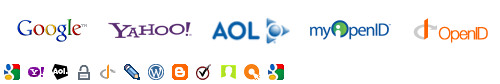
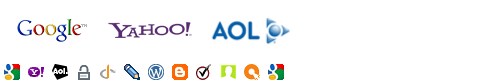
Removed myopenid and openid. Pending further fixes.

Changed region(s): [[0.81, 0.2143, 0.99, 0.5], [0.6, 0.2381, 0.78, 0.4762]]

diff --git a/ui/js/openid-en.js b/ui/js/openid-en.js
@@ -18,7 +18,7 @@ var providers_large = {
 		name : 'AOL',
 		label : 'Enter your AOL screenname.',
 		url : 'http://openid.aol.com/{username}'
-	},
+	}/*,
 	myopenid : {
 		name : 'MyOpenID',
 		label : 'Enter your MyOpenID username.',
@@ -28,7 +28,7 @@ var providers_large = {
 		name : 'OpenID',
 		label : 'Enter your OpenID.',
 		url : null
-	}
+	}*/
 };
 
 var providers_small = {
